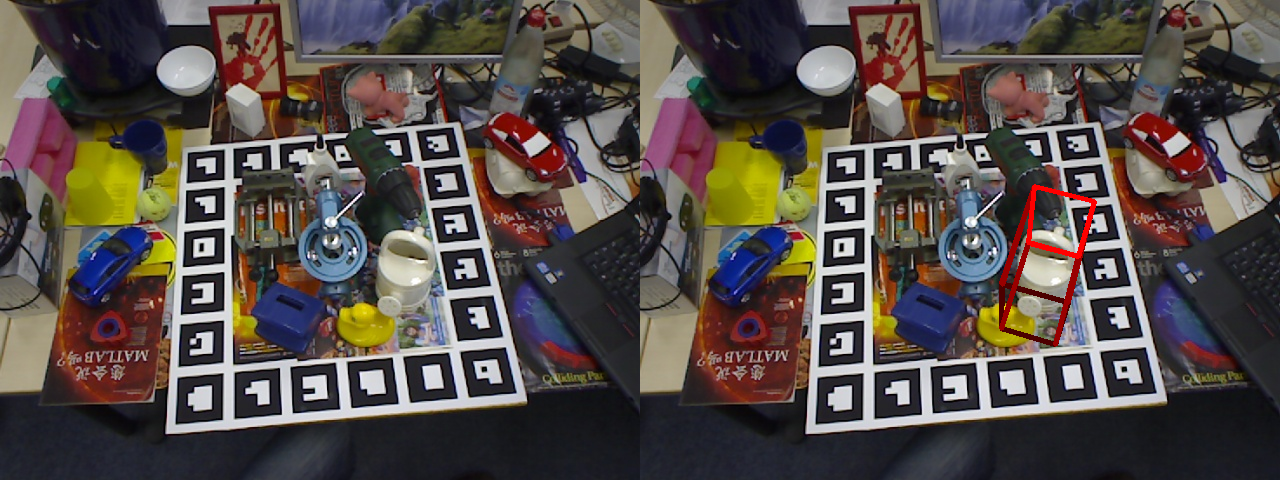
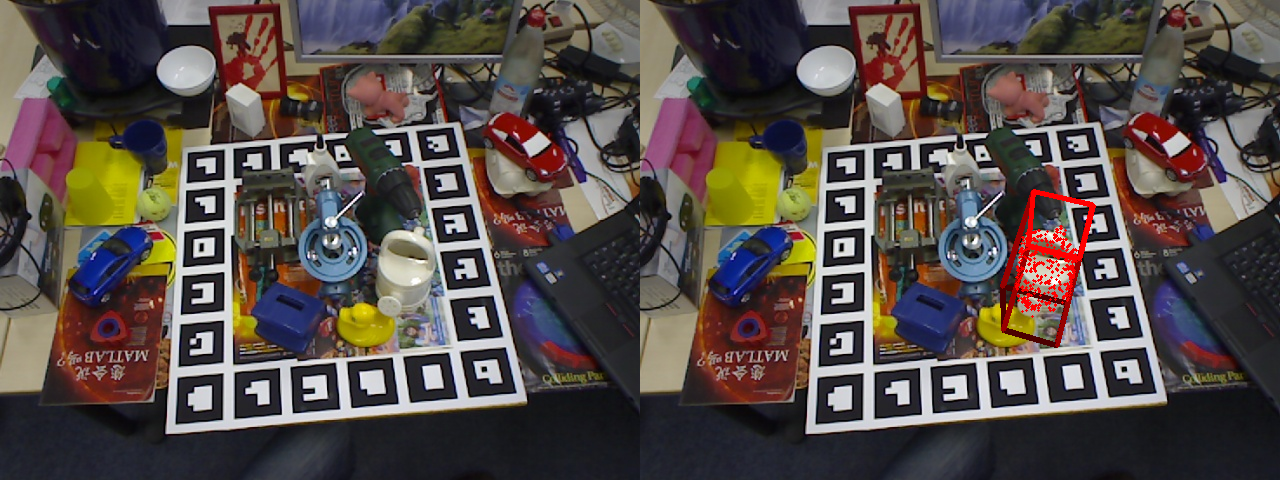
Add visualization

Changed region(s): [[0.7812, 0.4688, 0.8438, 0.6875], [0.7812, 0.375, 0.875, 0.4375], [0.8125, 0.6875, 0.8438, 0.7188]]

diff --git a/SAM-6D/Pose_Estimation_Model/utils/draw_utils.py b/SAM-6D/Pose_Estimation_Model/utils/draw_utils.py
@@ -48,31 +48,50 @@ def get_3d_bbox(scale, shift = 0):
     bbox_3d = bbox_3d.transpose()
     return bbox_3d
 
-def draw(img, imgpts, axes, color):
+def draw_3d_bbox(img, imgpts, color, size=3):
     imgpts = np.int32(imgpts).reshape(-1, 2)
 
     # draw ground layer in darker color
     color_ground = (int(color[0] * 0.3), int(color[1] * 0.3), int(color[2] * 0.3))
     for i, j in zip([4, 5, 6, 7],[5, 7, 4, 6]):
-        img = cv2.line(img, tuple(imgpts[i]), tuple(imgpts[j]), color_ground, 3)
+        img = cv2.line(img, tuple(imgpts[i]), tuple(imgpts[j]), color_ground, size)
 
     # draw pillars in blue color
     color_pillar = (int(color[0]*0.6), int(color[1]*0.6), int(color[2]*0.6))
     for i, j in zip(range(4),range(4,8)):
-        img = cv2.line(img, tuple(imgpts[i]), tuple(imgpts[j]), color_pillar, 3)
+        img = cv2.line(img, tuple(imgpts[i]), tuple(imgpts[j]), color_pillar, size)
 
     # finally, draw top layer in color
     for i, j in zip([0, 1, 2, 3],[1, 3, 0, 2]):
-        img = cv2.line(img, tuple(imgpts[i]), tuple(imgpts[j]), color, 3)
+        img = cv2.line(img, tuple(imgpts[i]), tuple(imgpts[j]), color, size)
     return img
 
-def draw_detections(image, pred_rots, pred_trans, scale, intrinsics, color=(255, 0, 0)):
+def draw_3d_pts(img, imgpts, color, size=1):
+    imgpts = np.int32(imgpts).reshape(-1, 2)
+    for point in imgpts:
+        img = cv2.circle(img, (point[0], point[1]), size, color, -1)
+    return img
+
+def draw_detections(image, pred_rots, pred_trans, model_points, intrinsics, color=(255, 0, 0)):
     num_pred_instances = len(pred_rots)
     draw_image_bbox = image.copy()
+    # 3d bbox
+    scale = (np.max(model_points, axis=0) - np.min(model_points, axis=0))
+    shift = np.mean(model_points, axis=0)
+    bbox_3d = get_3d_bbox(scale, shift)
+
+    # 3d point
+    choose = np.random.choice(np.arange(len(model_points)), 512)
+    pts_3d = model_points[choose].T
 
     for ind in range(num_pred_instances):
-        bbox_3d = get_3d_bbox(scale, 0)
+        # draw 3d bounding box
         transformed_bbox_3d = pred_rots[ind]@bbox_3d + pred_trans[ind][:,np.newaxis]
         projected_bbox = calculate_2d_projections(transformed_bbox_3d, intrinsics[ind])
-        draw_image_bbox = draw(draw_image_bbox, projected_bbox, None, color)
+        draw_image_bbox = draw_3d_bbox(draw_image_bbox, projected_bbox, color)
+        # draw point cloud
+        transformed_pts_3d = pred_rots[ind]@pts_3d + pred_trans[ind][:,np.newaxis]
+        projected_pts = calculate_2d_projections(transformed_pts_3d, intrinsics[ind])
+        draw_image_bbox = draw_3d_pts(draw_image_bbox, projected_pts, color)
+
     return draw_image_bbox

diff --git a/SAM-6D/Pose_Estimation_Model/run_inference_custom.py b/SAM-6D/Pose_Estimation_Model/run_inference_custom.py
@@ -101,8 +101,8 @@ rgb_transform = transforms.Compose([transforms.ToTensor(),
                                 transforms.Normalize(mean=[0.485, 0.456, 0.406],
                                                     std=[0.229, 0.224, 0.225])])
 
-def visualize(rgb, pred_rot, pred_trans, scale, K, save_path):
-    img = draw_detections(rgb, pred_rot, pred_trans, scale, K, color=(255, 0, 0))
+def visualize(rgb, pred_rot, pred_trans, model_points, K, save_path):
+    img = draw_detections(rgb, pred_rot, pred_trans, model_points, K, color=(255, 0, 0))
     img = Image.fromarray(np.uint8(img))
     img.save(save_path)
     prediction = Image.open(save_path)
@@ -312,7 +312,6 @@ if __name__ == "__main__":
     save_path = os.path.join(f"{cfg.output_dir}/sam6d_results", 'vis_pem.png')
     valid_masks = pose_scores>cfg.vis_score_thresh
     K = input_data['K'].detach().cpu().numpy()[valid_masks]
-    scale = np.max(np.abs(model_points), axis=0)*2 * 1000
-    vis_img = visualize(img, pred_rot[valid_masks], pred_trans[valid_masks], scale, K, save_path)
+    vis_img = visualize(img, pred_rot[valid_masks], pred_trans[valid_masks], model_points*1000, K, save_path)
     vis_img.save(save_path)
 
